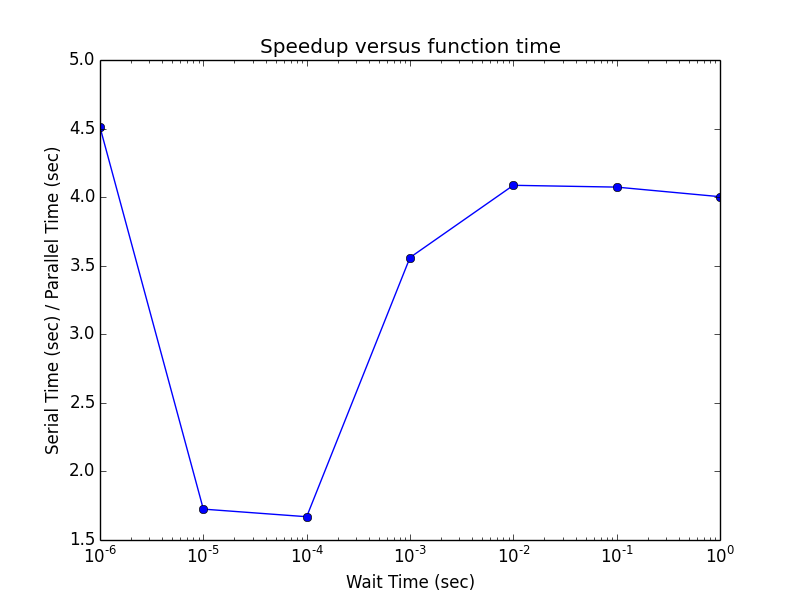
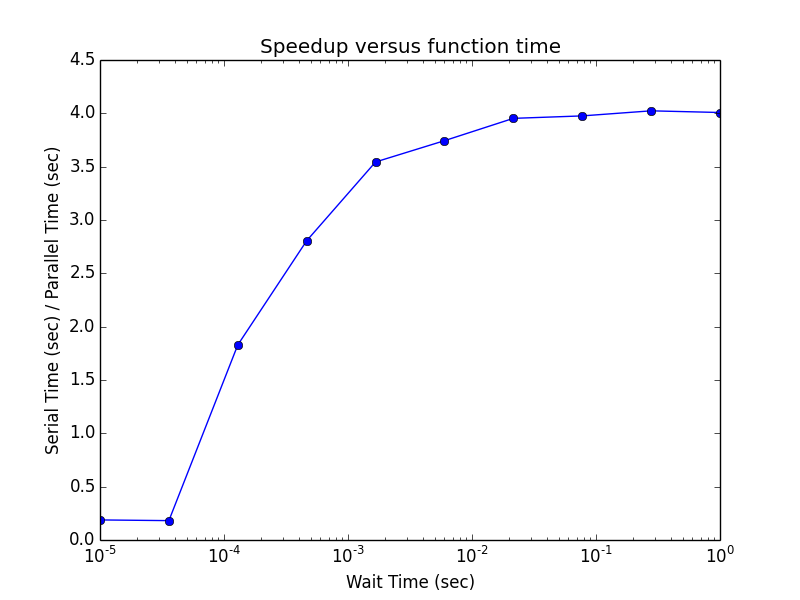
Updated P6

diff --git a/HW0/P6/P6B.py b/HW0/P6/P6B.py
@@ -1,6 +1,7 @@
 import multiprocessing as mp
 import time
 import matplotlib.pyplot as plt
+import numpy as np
 
 
 # Sleep for t seconds
@@ -17,7 +18,8 @@ if __name__ == '__main__':
 
     # Use a variety of wait times
     ratio = []
-    wait_time = [0.000001, 0.00001, 0.0001, 0.001, 0.01, 0.1, 1]
+    wait_time = np.logspace(1E-6, 1, 10, base=10E-6)
+    print wait_time
 
     for t in wait_time:
         # Compute jobs serially and in parallel
@@ -25,7 +27,7 @@ if __name__ == '__main__':
 
         # Serial
         start_time = time.time()
-        for n in xrange(0, N):
+        for n in xrange(N):
             burnTime(t)
 
         end_time = time.time()
@@ -33,7 +35,7 @@ if __name__ == '__main__':
 
         # Parallel
         start_time_p = time.time()
-        pool.map(burnTime, [t, t, t, t, t, t, t, t, t, t, t, t, t, t, t, t])
+        pool.map(burnTime, [t for n in xrange(N)])
         end_time_p = time.time()
         parallelTime = end_time_p - start_time_p
 

diff --git a/HW0/P6/P6A.py b/HW0/P6/P6A.py
@@ -1,6 +1,7 @@
 import multiprocessing as mp
 import time
 
+
 def burnTime(k):
     print("Hi Job {}".format(k))
     time.sleep(0.25)
